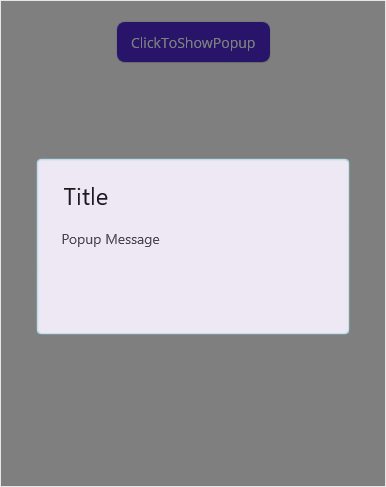
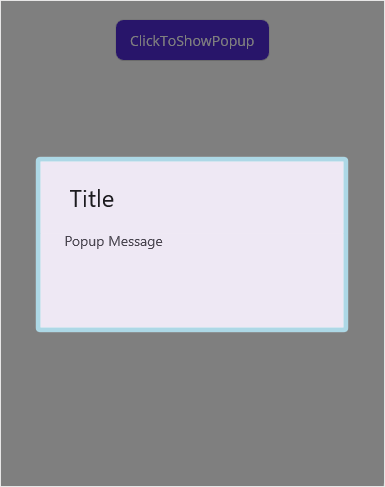
Modified the review changes

diff --git a/MAUI/Popup/styles.md b/MAUI/Popup/styles.md
@@ -270,7 +270,7 @@ Refer to the following code example for customizing the stroke elements.
 <sfPopup:SfPopup x:Name="popup">
     <sfPopup:SfPopup.PopupStyle>
         <sfPopup:PopupStyle Stroke="LightBlue"
-                            StrokeThickness="3"
+                            StrokeThickness="10"
                             CornerRadius="5" />
     </sfPopup:SfPopup.PopupStyle>
 <sfPopup:SfPopup>
@@ -286,7 +286,7 @@ public partial class MainPage : ContentPage
         InitializeComponent();
         popup = new SfPopup();
         popup.PopupStyle.Stroke = Colors.LightBlue;
-        popup.PopupStyle.StrokeThickness = 3;
+        popup.PopupStyle.StrokeThickness = 10;
         popup.PopupStyle.CornerRadius = 5;
     }
 }
